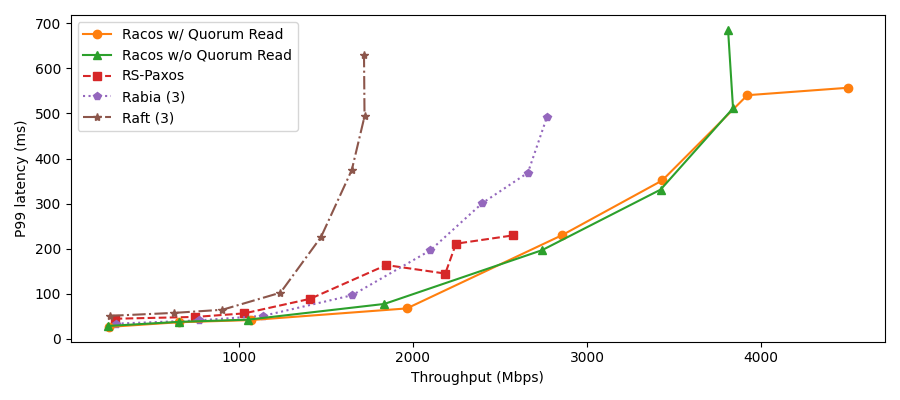
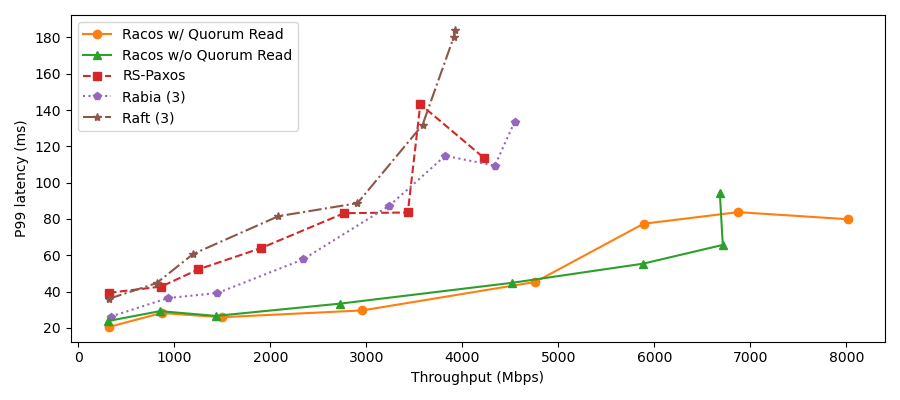
new test created

diff --git a/helpers/plotting_helpers.py b/helpers/plotting_helpers.py
@@ -36,10 +36,26 @@ def plot_53(data : pandas.DataFrame, legend : typing.List[pyplot.Line2D], path :
   pyplot.tight_layout()
   pyplot.savefig(f'plots/{path}.png')
 
-def plot_55(test : str, name_med : str, name_p99: str) -> None:
+def plot_55(test : str, name_med : str, name_p99: str, loc : str) -> None:
   plot_data : pandas.DataFrame = setup_dataframe(pandas.read_csv(f'data/{test}.csv'))
-  throughput_med_latency_plot(plot_data, f'{test}/{name_med}')
-  throughput_p99_latency_plot(plot_data, f'{test}/{name_p99}')
+
+  pyplot.figure(figsize = DIMENSIONS)
+  for alg, group in plot_data.groupby(['alg', 'unit_size'])[['ops', 'med_latency']].mean().reset_index().groupby('alg'):
+    pyplot.plot(group['ops'] * 5.3336, group['med_latency'] / 1000, marker = ALG_VANITY[alg][2], linestyle = ALG_VANITY[alg][3], color = ALG_VANITY[alg][0])
+  pyplot.xlabel('Throughput (Mbps)')
+  pyplot.ylabel('Median latency (ms)')
+  pyplot.legend(handles = LINE_LEGEND_READ, loc = f'upper {loc}')
+  pyplot.tight_layout()
+  pyplot.savefig(f'plots/{test}/{name_med}.png')
+
+  pyplot.figure(figsize = DIMENSIONS)
+  for alg, group in plot_data.groupby(['alg', 'unit_size'])[['ops', 'p99_latency']].mean().reset_index().groupby('alg'):
+    pyplot.plot(group['ops'] * 5.3336, group['p99_latency'] / 1000, marker = ALG_VANITY[alg][2], linestyle = ALG_VANITY[alg][3], color = ALG_VANITY[alg][0])
+  pyplot.xlabel('Throughput (Mbps)')
+  pyplot.ylabel('P99 latency (ms)')
+  pyplot.legend(handles = LINE_LEGEND_READ, loc = f'upper {loc}')
+  pyplot.tight_layout()
+  pyplot.savefig(f'plots/{test}/{name_p99}.png')
 
 def read_plot(test : str, name_53 : str, name_54: str) -> None:
   '''
@@ -82,33 +98,3 @@ def setup_dataframe(data : pandas.DataFrame) -> pandas.DataFrame:
   '''
   working_data : pandas.DataFrame = prune_dataframe(data)
   return working_data.loc[(((working_data['alg'] == 'racos') | (working_data['alg'] == 'tracos') | (working_data['alg'] == 'paxos')) & (working_data['num_nodes'] == 6)) | (((working_data['alg'] == 'rabia') | (working_data['alg'] == 'raft')) & (working_data['num_nodes'] == 4))]
-
-def throughput_med_latency_plot(data : pandas.DataFrame, path : str) -> None:
-  '''
-  generates plots in the style of those in 5.5 for median latency
-  :param data: the data in a DataFrame
-  :param path: the path to save to
-  '''
-  pyplot.figure(figsize = DIMENSIONS)
-  for alg, group in data.groupby(['alg', 'unit_size'])[['ops', 'med_latency']].mean().reset_index().groupby('alg'):
-    pyplot.plot(group['ops'] * 5.3336, group['med_latency'] / 1000, marker = ALG_VANITY[alg][2], linestyle = ALG_VANITY[alg][3], color = ALG_VANITY[alg][0])
-  pyplot.xlabel('Throughput (Mbps)')
-  pyplot.ylabel('Median latency (ms)')
-  pyplot.legend(handles = LINE_LEGEND_READ, loc = 'upper left')
-  pyplot.tight_layout()
-  pyplot.savefig(f'plots/{path}.png')
-
-def throughput_p99_latency_plot(data : pandas.DataFrame, path : str) -> None:
-  '''
-  generates plots in the style of those in 5.5 for p99 latency
-  :param data: the data in a DataFrame
-  :param path: the path to save to
-  '''
-  pyplot.figure(figsize = DIMENSIONS)
-  for alg, group in data.groupby(['alg', 'unit_size'])[['ops', 'p99_latency']].mean().reset_index().groupby('alg'):
-    pyplot.plot(group['ops'] * 5.3336, group['p99_latency'] / 1000, marker = ALG_VANITY[alg][2], linestyle = ALG_VANITY[alg][3], color = ALG_VANITY[alg][0])
-  pyplot.xlabel('Throughput (Mbps)')
-  pyplot.ylabel('P99 latency (ms)')
-  pyplot.legend(handles = LINE_LEGEND_READ, loc = 'upper left')
-  pyplot.tight_layout()
-  pyplot.savefig(f'plots/{path}.png')

diff --git a/run_tests.py b/run_tests.py
@@ -92,7 +92,18 @@ CPU freq: {cpu_freqs}''')
 
   for alg in algs:
     equal_print(alg, 1)
-    run_cmd : str = f'sh /local/run.sh {alg if alg != "tracos" else "racos"} 1 3 {"false" if alg != "tracos" else "true"}'
+    run_cmd : str = f'sh /local/run.sh '
+    if alg == 'racos': run_cmd += 'racos 1 3 false'
+    elif alg == 'tracos': run_cmd += 'racos 1 3 true'
+    elif alg == 'racos34': run_cmd += 'racos 2 3 false'
+    elif alg == 'tracos34': run_cmd += 'racos 2 3 true'
+    elif alg == 'racos42': run_cmd += 'racos 1 4 false'
+    elif alg == 'tracos42': run_cmd += 'racos 1 4 true'
+    elif alg == 'racos52': run_cmd += 'racos 1 5 false'
+    elif alg == 'tracos52': run_cmd += 'racos 1 5 true'
+    elif alg == 'paxos': run_cmd += 'paxos 1 3 false'
+    elif alg == 'rabia': run_cmd += 'rabia 1 3 false'
+    elif alg == 'raft': run_cmd += 'raft 1 3 false'
 
     # fetch the test configuration
     test_config : typing.Dict[str, typing.Union[float, str]] = {}
@@ -125,7 +136,7 @@ CPU freq: {cpu_freqs}''')
       # configures `profile.sh` and `workload` for the current algorithm
       if alg == 'paxos': profile_string = PROFILE_CONFIG.format(leader_endpoint = '10.10.1.1:2379')
       else: profile_string = PROFILE_CONFIG.format(leader_endpoint = ','.join([f"{node_ip}:2379" if node_ip != "10.10.1.2" else f"{node_ip}:2379,{node_ip}:2379" for node_ip in node_ips_list]))
-      workload_cmd : str = SCRIPT_LOADER.format(script = test_config["workload"].format(variable = str(variable), counts = COUNTS[i] if test.startswith('data_size') else COUNTS[7 - i]), path = '/local/go-ycsb/workloads/workload')
+      workload_cmd : str = SCRIPT_LOADER.format(script = test_config["workload"].format(variable = str(variable), counts = COUNTS[i] if test.startswith('data_size') else COUNTS[7 - i]) if not test.startswith('scalability') else test_config['workload'], path = '/local/go-ycsb/workloads/workload')
       bash_print(workload_cmd)
       remote_execute_async(client_address, workload_cmd)
       profile_setup_cmd : str = SCRIPT_LOADER.format(script = profile_string, path = '/local/go-ycsb/workloads/profile.sh')
@@ -158,11 +169,11 @@ for curr_test in test_configs:
 
   # generates the plots
   if test == 'data_size-discrete-all_read': data_size_discrete_all_read()
-  if test == 'data_size-discrete-all_write': data_size_discrete_all_write()
-  if test == 'data_size-discrete-half_write_half_read': data_size_discrete_half_write_half_read()
-  if test == 'data_size-discrete-5_write_95_read': data_size_discrete_5_write_95_read()
-  if test == 'threads-discrete-half_write_half_read': threads_discrete_half_write_half_read()
-  if test == 'threads-discrete-5_write_95_read': threads_discrete_5_write_95_read()
+  elif test == 'data_size-discrete-all_write': data_size_discrete_all_write()
+  elif test == 'data_size-discrete-half_write_half_read': data_size_discrete_half_write_half_read()
+  elif test == 'data_size-discrete-5_write_95_read': data_size_discrete_5_write_95_read()
+  elif test == 'threads-discrete-half_write_half_read': threads_discrete_half_write_half_read()
+  elif test == 'threads-discrete-5_write_95_read': threads_discrete_5_write_95_read()
 
 # saves all new data to the github repo
 git_interact(['add', 'data', 'plots', 'logs'])

diff --git a/plotting.py b/plotting.py
@@ -55,13 +55,16 @@ def data_size_discrete_5_write_95_read() -> None:
   '''creates all configured plots from the data found in `data/data_size-discrete-5_write_95_read.csv`'''
   read_plot('data_size-discrete-5_write_95_read', 'data_size-throughput-5_write_95_read', 'data_size-latency-5_write_95_read')
 
+def scalability_6667_5_write_95_read() -> None:
+  '''creates all configured plots from the data found in `data/scalability-666.7-5_write_95_read.csv`'''
+
 def threads_discrete_half_write_half_read() -> None:
   '''creates all configured plots from the data in `data/threads-discrete-half_write_half_read.csv`'''
-  plot_55('threads-discrete-half_write_half_read', 'throughput-med_latency-half_write_half_read', 'throughput-p99_latency-half_write_half_read')
+  plot_55('threads-discrete-half_write_half_read', 'throughput-med_latency-half_write_half_read', 'throughput-p99_latency-half_write_half_read', 'right')
 
 def threads_discrete_5_write_95_read() -> None:
   '''creates all configured plots from the data in `data/threads-discrete-5_write_95_read.csv`'''
-  plot_55('threads-discrete-5_write_95_read', 'throughput-med_latency-5_write_95_read', 'throughput-p99_latency-5_write_95_read')
+  plot_55('threads-discrete-5_write_95_read', 'throughput-med_latency-5_write_95_read', 'throughput-p99_latency-5_write_95_read', 'left')
 
 if __name__ == '__main__':
   data_size_discrete_all_read()
